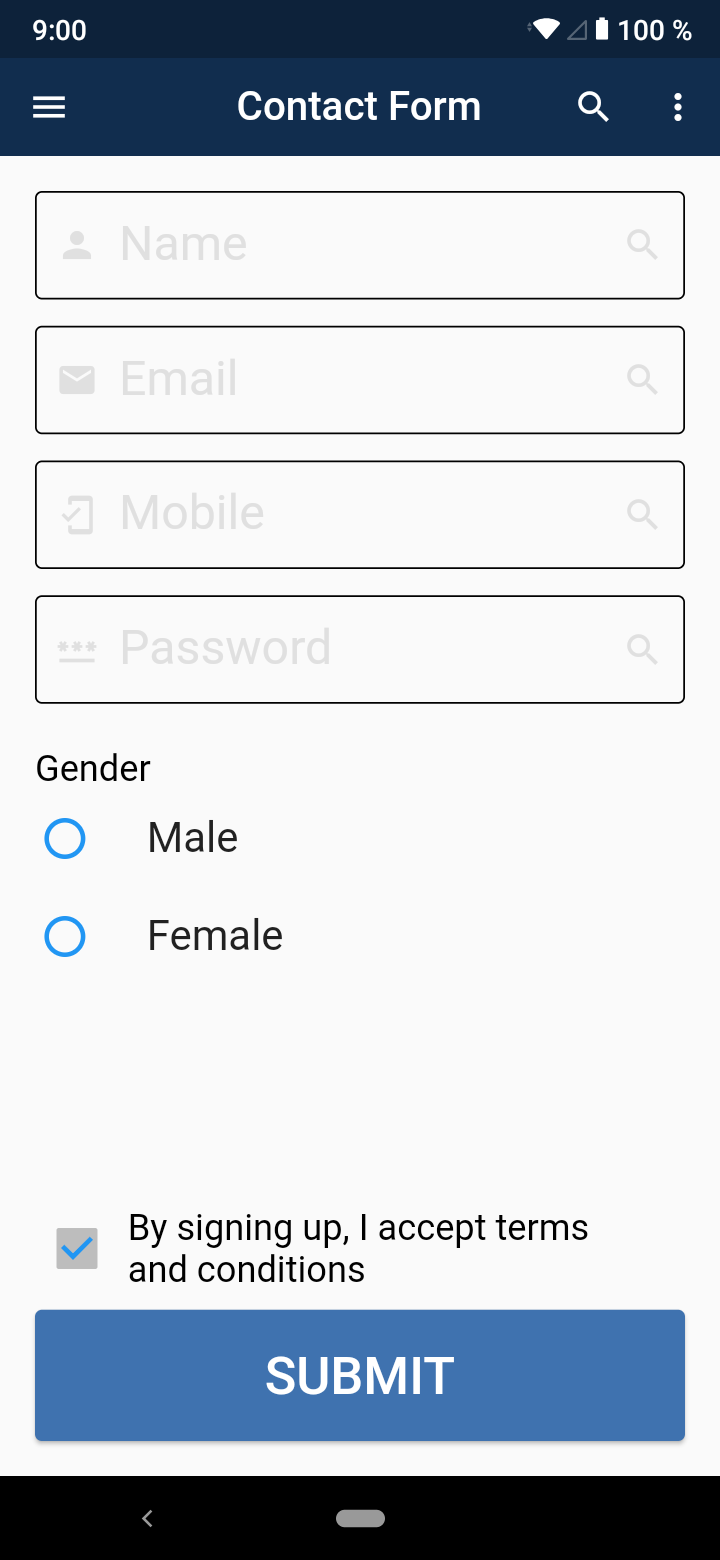
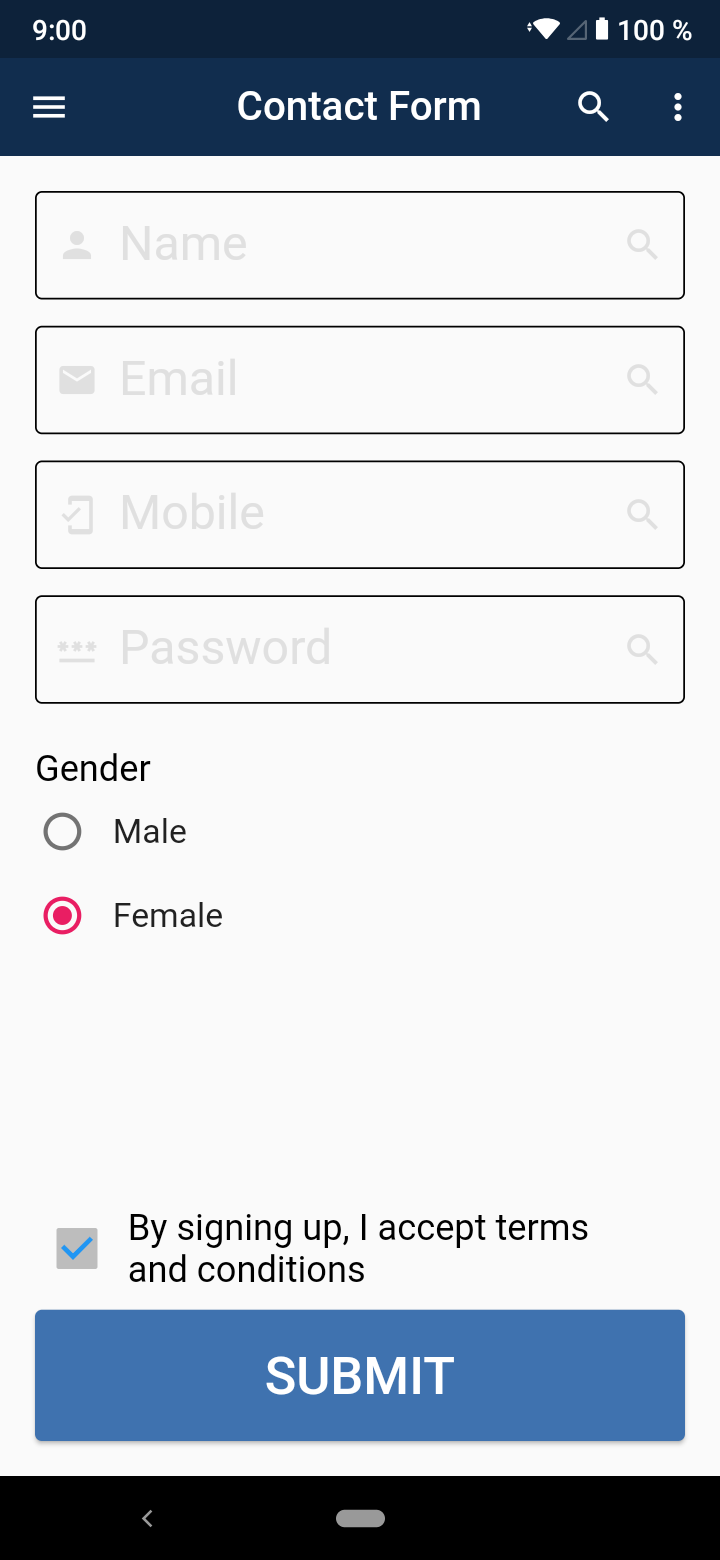
EX_19

Changed region(s): [[0.1833, 0.5846, 0.3972, 0.6154], [0.1528, 0.5231, 0.3361, 0.5538], [0.0611, 0.5231, 0.1222, 0.6154]]

diff --git a/lib/screens/practice_19.dart b/lib/screens/practice_19.dart
@@ -13,8 +13,8 @@ class _Practice19State extends State<Practice19> {
   TextEditingController _mobileCtrl = TextEditingController();
   TextEditingController _passwordCtrl = TextEditingController();
   bool _isTermsAccepted = false;
+  String _gender = "Male";
   var _formKey = GlobalKey<FormState>();
-  String? gender;
 
   @override
   Widget build(BuildContext context) {
@@ -176,44 +176,53 @@ class _Practice19State extends State<Practice19> {
                       ),
                       //
                       Container(
-                        margin: EdgeInsets.fromLTRB(20, 0, 20, 0),
+                        padding: EdgeInsets.fromLTRB(20, 0, 20, 0),
                         child: Column(
                           children: [
                             Transform.scale(
-                              scale: 1.3,
-                              child: Theme(
-                                data: ThemeData(
-                                    toggleableActiveColor: Colors.red,
-                                    unselectedWidgetColor: Colors.blue),
-                                child: RadioListTile(
-                                    title: Text("Male"),
-                                    value: gender,
-                                    groupValue: "Male",
-                                    activeColor: Colors.blue,
-                                    onChanged: (value) {
+                              scale: 1.2,
+                              child: Row(
+                                children: [
+                                  Radio(
+                                    activeColor: Colors.tealAccent,
+                                    value: "Male",
+                                    groupValue: _gender,
+                                    onChanged: (val) {
                                       setState(() {
-                                        gender = value.toString();
+                                        _gender = val!;
                                       });
-                                    }),
+                                    },
+                                  ),
+                                  GestureDetector(
+                                    child: Text("Male"),
+                                    onTap: ((() {
+                                      _gender = "Male";
+                                    })),
+                                  ),
+                                ],
                               ),
                             ),
                             Transform.scale(
-                              scale: 1.3,
-                              child: Theme(
-                                data: ThemeData(
-                                    backgroundColor: Colors.grey,
-                                    toggleableActiveColor: Colors.red,
-                                    unselectedWidgetColor: Colors.blue),
-                                child: RadioListTile(
-                                    activeColor: Colors.blue,
-                                    title: Text("Female"),
-                                    value: gender,
-                                    groupValue: "Female",
-                                    onChanged: (value) {
+                              scale: 1.2,
+                              child: Row(
+                                children: [
+                                  Radio(
+                                    activeColor: Colors.pink,
+                                    value: "Female",
+                                    groupValue: _gender,
+                                    onChanged: (val) {
                                       setState(() {
-                                        gender = value.toString();
+                                        _gender = val!;
                                       });
-                                    }),
+                                    },
+                                  ),
+                                  GestureDetector(
+                                    child: Text("Female"),
+                                    onTap: ((() {
+                                      _gender = "Female";
+                                    })),
+                                  ),
+                                ],
                               ),
                             ),
                           ],
@@ -240,7 +249,6 @@ class _Practice19State extends State<Practice19> {
                               checkColor: Colors.blue,
                               value: _isTermsAccepted,
                               onChanged: (val) {
-                                print(val);
                                 setState(() {
                                   _isTermsAccepted = val!;
                                 });
@@ -270,7 +278,6 @@ class _Practice19State extends State<Practice19> {
                         ),
                         onPressed: () {
                           if (_formKey.currentState!.validate()) {
-                            print(gender);
                             print(_nameCtrl.text);
                             print(_emailCtrl.text);
                             print(_mobileCtrl.text);
